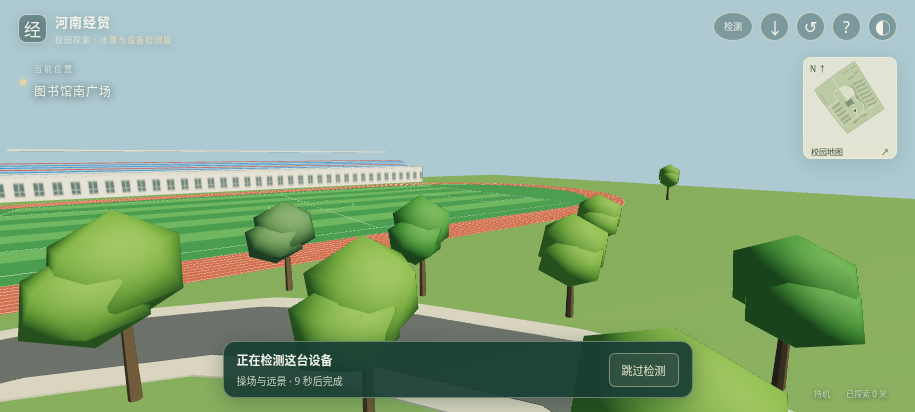
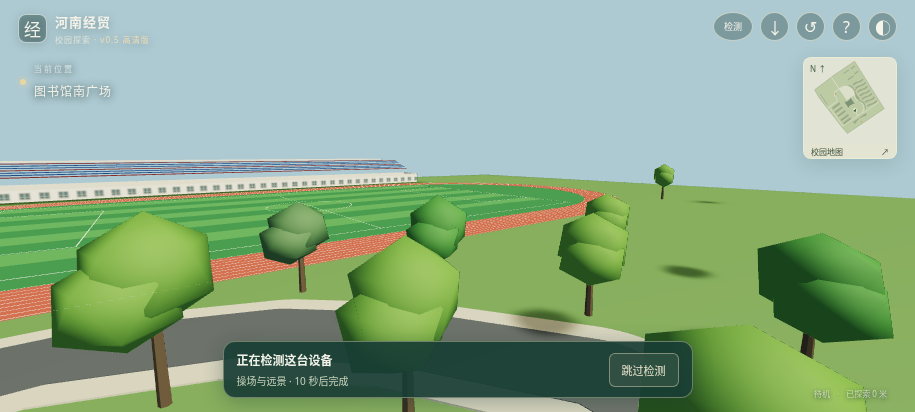
阶段同步：v0.5完整浏览器回归和验收边界整理
Campus-Verified-Stage: v0.5完整浏览器回归和验收边界整理

diff --git a/tools/promote_v05_assets.py b/tools/promote_v05_assets.py
@@ -2,7 +2,12 @@
 from pathlib import Path
 import json,shutil,hashlib,sys
 ROOT=Path(__file__).resolve().parents[1];sys.path.insert(0,str(ROOT));from automation.quality import glb_gate
-A=ROOT/'assets/henan_campus';P=A/'project';stage=ROOT/'.campus-cache/v05';final=stage/'final';character=stage/'character';backup=stage/'rollback';backup.mkdir(exist_ok=True)
+A=ROOT/'assets/henan_campus';P=A/'project';stage=ROOT/'.campus-cache/v05';final=stage/'final';character=stage/'character';backup=stage/'rollback'
+current=json.loads((P/'scene_specification.json').read_text())
+if current.get('version')=='0.5':
+ assert current.get('v05_floor_policy')==json.loads((ROOT/'configs/v05-buildings.json').read_text()),'Changed floor policy requires a new explicit revision; refusing to rescale promoted geometry'
+ print('V05_ALREADY_PROMOTED: reuse verified assets without rescaling');raise SystemExit(0)
+backup.mkdir(exist_ok=True)
 assert glb_gate(final/'HenanCampus.glb',10)['passed'];assert glb_gate(character/'CampusExplorer.glb',1,True)['passed']
 assert json.loads((character/'animation-report.json').read_text())['passed'];geo=json.loads((final/'geometry-report.json').read_text());assert geo['facade_buildings']==[15,16,17,18,19]
 for src in [P/'HenanCampus.blend',P/'HenanCampus.fbx',P/'scene_specification.json',A/'character/output/CampusExplorer.blend',A/'character/output/CampusExplorer.fbx',A/'character/output/CampusExplorer.glb']:

diff --git a/tools/prepare_v05_maps.py b/tools/prepare_v05_maps.py
@@ -22,7 +22,7 @@ shadows=[]
 for o in spec['objects']:
  if o['group'] not in ['Buildings','Gate','Roof_details']:continue
  p=Polygon(o['polygon']['rings'][0],o['polygon']['rings'][1:]);idx=o.get('building_index');z=o['z']+o['height']
- if idx in policy:
+ if idx in policy and o.get('height_rule')!='USER_3M_FLOOR_RULE':
   q=policy[idx];old=q['old_body_height_m'];new=q['body_height_m'];z=(.16+(z-.16)*new/old) if z<=.16+old else z+new-old
  dx=z*.6308;dy=z*.8679
  shifted=affinity.translate(p,dx,dy);sweep=[p,shifted]

diff --git a/docs/work-status.md b/docs/work-status.md
@@ -1,34 +1,35 @@
-# 当前工作状态
+# 当前工作状态：v0.5
 
-本轮目标：将设备检测落实为手机可直接使用的网页功能，改进水面，并将新增参考资料获取流程化。
+正式源码和模型已保存GitHub，网页沿用原入口与权限；上线版本以 `reports/web-deployment.json` 为准。AI每阶段先获取远程、验收后立即提交推送，当前云环境每分钟检查并重试待同步提交，详见 [持续同步](github-sync.md)。
 
 ## 已完成
 
-| 工作 | 实际证据与范围 |
+| 工作 | 实际证据与边界 |
 | --- | --- |
-| WebGPU/WebGL 2自动识别 | 读取实际引擎后端及实际设备/兼容性探测信息，区分软件适配器与未知硬件 |
-| 约45秒固定场景采样 | 真实渲染时间，固定画质与画布尺寸，四个校园视角 |
-| 本机保存、报告导出及重测 | Chromium实际完成导出、取消、尺寸变化中断与刷新后读取；补充验证空中启动后仍恢复原位置 |
-| 性能结论门禁 | 9项JS测试覆盖虚假高帧率、回退、软件适配器、缺阶段、卡顿及图形错误；原21项管线测试继续保留 |
-| 水面外观改进 | 共6个水面网格实例；两处水景各128像素立方反射图，12个面一次采集后复用；双层波纹、视角反射与高光 |
-| 跨平台补充参考资料 | 6个公开网页完成缓存与资源引用索引；8张新增校园照片已实际查看、解码、校验，原图仅在未上传的参考缓存中 |
-| 资料获取样板 | 来源配置、1/3/8张批处理、哈希缓存、拒绝把头像和图片清单当作模型、记录访问限制 |
+| 速度5倍、可切1倍 | 行走13.25m/s、奔跑26.5m/s；是快速探索档，非真实人的步行速度。4项实际Rapier测试覆盖5倍比率、10cm薄墙、斜向归一与加减速 |
+| 地面与步态修复 | 最小实验定位大地面碰撞带来的卡顿，改用平面支撑，固定120Hz物理；复用原骨架网格，双腿IK、支撑与摆动、反向摆臂，IK误差小于0.025m。并非动作捕捉或完全自然步态 |
+| 20处建筑层高规范 | 1单位=1米，主体高度=层数×3m；长宽记录OSM轮廓尺寸。层数有估计，非测绘级1:1；报告v05-geometry.json |
+| 5栋同类楼群构件 | 15–19号模型按1→3→5扩展，浅色长立面、橙红端墙、窗框/石材带/转角玻璃；类别近似，逐栋照片身份与朝向仍待核对 |
+| 模型完整性 | 77966三角面，20闭合主体；GLB/FBX实际重导入与材质检查通过，尺寸误差不超过1mm；assets/henan_campus/project/verification/reimport_validation.json |
+| 高清配置 | PlayCanvas2.23.3；WebGPU优先/WebGL2回退；渲染比例1–1.25；局部实时阴影1024px；烘焙AO及地面静态投影；SSAO/Bloom可选且实际开启渲染检查通过 |
+| 水面 | 双层波纹、3处估算水深/岸泡图、2张128px静态场景Cubemap共12面实际捕获；水深上限1.3m来自岸距估计，不是测量 |
+| 实际浏览器回归 | Chromium软件WebGL2下移动、跳跃、碰撞、镜头、触控、地图、重置、横屏及17项核心资源离线重载通过；playable-regression.json、v05-browser.json |
+| 设备自动报告 | 实际后端与帧间隔采样，固定四视角约45秒；导出/取消/旋屏中断/本机保存。不能代替实体安卓运行 |
+| 增量自动化与同步 | v0.5的49任务通过，再跑49缓存命中；32项Python+4项移动+9项性能测试通过；11项真实Git隔离测试验证断网、冲突和编辑保护 |
 
-## 未完成与根因
+## 未完成及原因
 
-| 未完成 | 根因 | 下一步 |
+| 未完成 | 当前证据与根因 | 下一步 |
 | --- | --- | --- |
-| 安卓硬件WebGPU性能验收 | 云端无法直接访问用户手机；软件适配器不能代表手机 | 手机打开原网页后自动生成报告，再按真实瓶颈优化 |
-| 云端软件WebGPU画布可视验收 | 初始化及离屏清屏成功，画布呈现为空 | 保留最小复现和失败记录；不把它用于硬件性能结论，不盲目重试 |
-| 其余19栋建筑外观精修 | 新照片尚需对应具体楼号、立面方向与可靠比例 | 优先匹配主要道路沿线橙红墙楼群，先验证一栋，再迁移同类配方 |
-| 水景几何真实还原 | 湖岸轮廓、深度、桥梁和精确相对位置仍含估算 | 比对新增湖畔照片及现有地图，先修一处对应关系 |
-| 高精度平面倒影与动态人物倒影 | 当前为静态场景立方图，近岸有视差近似 | 先取得手机预算；必要时在较高画质档评估平面倒影 |
-| 人物面部、头发、手部和衣褶细节 | 当前为参考图引导的近似模型 | 在校园主视区和帧率可用后继续细化，先做一处效果对照 |
-| 学校原始三维模型、摄影测量重建 | 本轮6个页面没有发现真实网格；8张参考图不是合格的同区域多视角相机数据 | 不将照片冒充模型；保留输入缺失，不盲跑COLMAP |
-| 安卓安装、离线与持续运行温升 | 本次只有浏览器模拟和本地离线检查 | 后续实体设备验证；本轮不宣称已完成APK或长时间验收 |
+| 3处总图可见结构补入 | v05-building-coverage.json记录北侧长条、东侧浅顶、南侧小厅；图片像素框不是地图坐标。12处边界外OSM建筑已排除，不能补成学校建筑 | 用已有地面锚点校准，再独立验证位置；通过后才生成几何 |
+| 全校覆盖与精确1:1 | 缺失数量未完全确定；OSM非实测，层数估计，3m为规则。总图配准虽RMS2.72px，但投影方向不合理，v05-map-registration.json明确未通过 | 补足平面约束，不将拟合误差小当成真实位置正确 |
+| 其余14处外观与逐栋身份 | 当前以基础轮廓为主；5栋精修也只是外观类型迁移 | 使用已有照片逐栋对应楼号、方向和高度，再扩展配方 |
+| 安卓WebGPU硬件性能 | 云端软件渲染不能代表用户手机；软件WebGPU初始化与离屏清屏通过，但云画布为空 | 手机打开网页自动报告，以实际后端、FPS与帧耗时决定预算 |
+| 完整静态墙面光照/高精倒影 | 已烘焙AO与地面静态阴影；未做全墙面直接光烘焙。局部平面反射未开启/验收 | 手机预算允许再小范围试验，避免增加全场景成本 |
+| 人物脸部、头发、手部及衣褶 | 当前为参考图引导近似，并非多视角真实扫描 | 主视区与流畅性确定后再提升，保留原骨架与动画 |
+| 原始校园模型/COLMAP重建 | 尚无原始学校网格；现有照片不满足同一区域多位置摄影测量条件 | 不继续盲跑、不冒充真实重建；复用当前可验证资料 |
+| 实体PWA安装与温升 | 已有浏览器安装条件与离线模拟；无手机持续运行测量 | 手机端自动检测后再验持续运行；本阶段不打包APK |
 
-## 下一步的主要矛盾
+## 下一步
 
-先让目标手机产生一份真实设备报告，确定是否支持WebGPU及当前帧耗时，再决定资源精度预算。与此独立，使用新增照片建立“照片—楼号—立面方向”的对应，先精修一栋沿路可见建筑；不能把尚未核对的外观一键复制到19栋。
-
-新增资源的拍摄日期未知，路径含2022不等于照片拍于2022。近期微博湖畔视频只取得公开页面线索，封面有403限制，不宣称已看清视频内容或取得模型。原54处全景站及220个请求没有重跑。
+完成原网页v0.5发布与记录；随后优先解决3处缺失结构的平面定位，才适合成批补齐。用户无需安装、编程或建模。已有54个全景站、220个请求及已验证模型不重复下载或重建。

diff --git a/docs/v05-validation.md b/docs/v05-validation.md
@@ -1,0 +1,20 @@
+# v0.5 验收范围
+
+本轮修复移动卡顿、实现用户要求5倍漫游、统一3米层高，扩展5栋楼群构件及高清光影水景。实际运行截图：
+
+![第三人称移动](images/v05-running.png)
+![楼群构件](images/v05-facade.png)
+![水面](images/v05-water.png)
+
+截图来自Chromium软件WebGL2的真实三维运行，不是效果图，不代表安卓硬件性能。
+
+- 45项自动测试：32项Python（管线/几何/同步）、4项实际Rapier移动、9项性能判定。另有7个管线门禁及GLB/FBX实际重导入检查。
+- reports/v05-browser.json：触屏尺寸运行、5倍移动与Run动画、烘焙AO材质、1024px实时阴影、SSAO/Bloom实际开启、3处岸距深度图及12面Cubemap捕获通过。
+- reports/v05-physics.json：行走、奔跑、跳跃、楼体碰撞、4处出生点、掉落恢复和台阶检查。
+- reports/playable-regression.json：移动、触控、镜头、地图、重置与离线重载。
+- reports/v05-full-batch.json 与 v05-cache-reuse.json：49任务通过及49缓存复用。
+- reports/v05-building-coverage.json 与 v05-map-registration.json：明确记录3处未接入结构及配准失败，不作完成结论。
+
+米制单位不等于测绘准确。楼层数有估计、每层3米是用户规则；水深由距岸线估算；5栋楼群是照片类别引导近似。脚步改进不能把13.25/26.5m/s称为真人自然步速。14处其他建筑、全校覆盖、逐栋身份和真实手机GPU预算尚未完成。
+
+本版重新运行完整45秒设备检测、JSON导出、取消、旋屏中断及本机报告恢复，均通过功能检查；软件WebGL2约0.9–1.1FPS，性能未达标，报告没有判为硬件WebGPU通过。见 reports/browser-device-check.json。

diff --git a/docs/device-check.md b/docs/device-check.md
@@ -26,4 +26,4 @@
 
 45秒测试用于发现明显兼容性及帧率问题，不覆盖持续发热、耗电、长时间稳定性、建筑真实性或所有触控操作。手机实体设备的运行结果仍需由手机实际打开网页产生，AI不能从云端直接读取用户手机GPU。
 
-本次云端完整流程使用 Chromium 软件 WebGL 2 验证，性能约0.6–1.4 FPS，未达标。另做软件WebGPU实验：适配器可初始化，离屏红色清屏回读正确，但该云环境的WebGPU画布截图为空；没有把“初始化成功”写成视觉通过。详情见 `reports/browser-device-check.json`、`reports/webgpu-canary.json` 和 `reports/webgpu-render-validation.json`。
+v0.5重新运行了完整流程：Chromium软件WebGL2约0.9–1.1 FPS，未达标；这是当前云端无硬件GPU的软件渲染结果，不能推断用户安卓手机帧率。另做软件WebGPU实验：适配器可初始化，离屏红色清屏回读正确，但该云环境的WebGPU画布截图为空；没有把“初始化成功”写成视觉通过。详情见 `reports/browser-device-check.json`、`reports/webgpu-canary.json` 和 `reports/webgpu-render-validation.json`。
